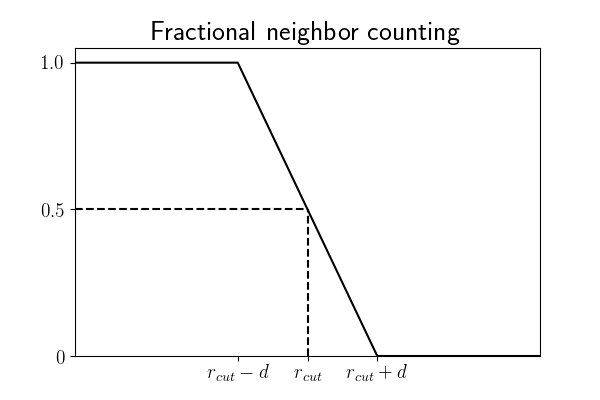
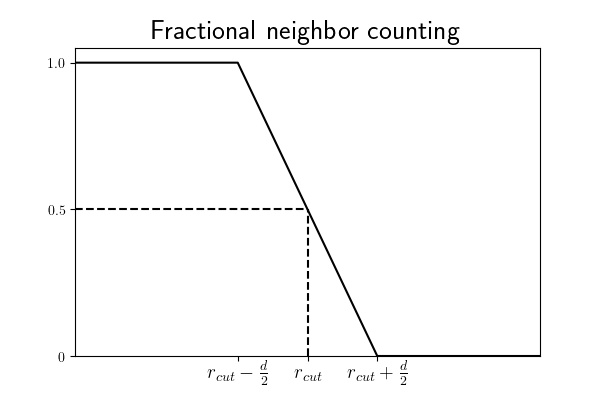
Fixed local density image

diff --git a/doc/source/images/gen_density_graphic.py b/doc/source/images/gen_density_graphic.py
@@ -12,8 +12,8 @@ ax.plot(x, y, color='k')
 ax.set_xticks(x[1:4])
 ax.set_yticks(y[1:4])
 fontdict = {'fontsize': 14}
-ax.set_xticklabels(["$r_{cut} - d$", "$r_{cut}$", "$r_{cut} + d$"], fontdict)
-ax.set_yticklabels(["$1.0$", "$0.5$", "$0$"], fontdict)
+ax.set_xticklabels([r"$r_{cut} - \frac{d}{2}$", r"$r_{cut}$", r"$r_{cut} + \frac{d}{2}$"], fontdict)
+ax.set_yticklabels(["$1.0$", "$0.5$", "$0$"])
 ax.hlines(0.5, 0, r_cut, linestyles='dashed')
 ax.vlines(r_cut, 0, 0.5, linestyles='dashed')
 ax.set_xlim([0, 2*r_cut])
